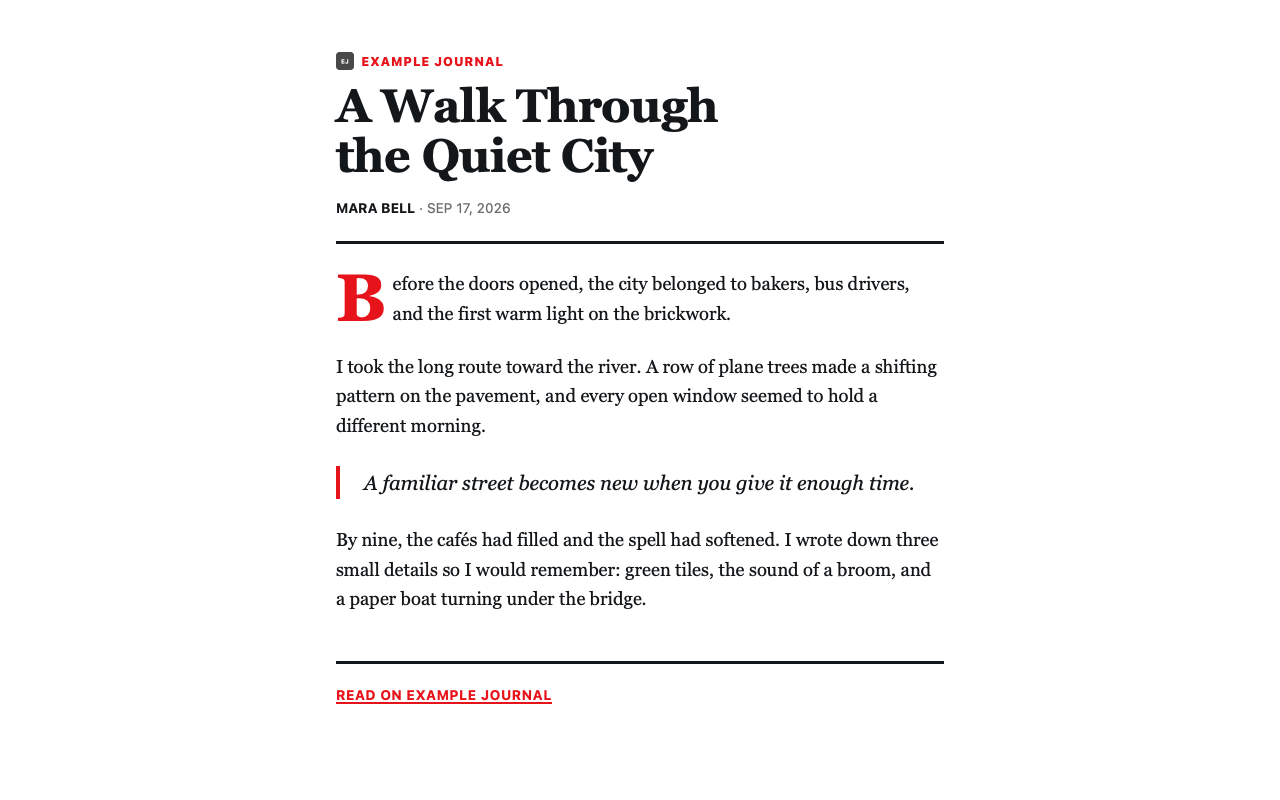
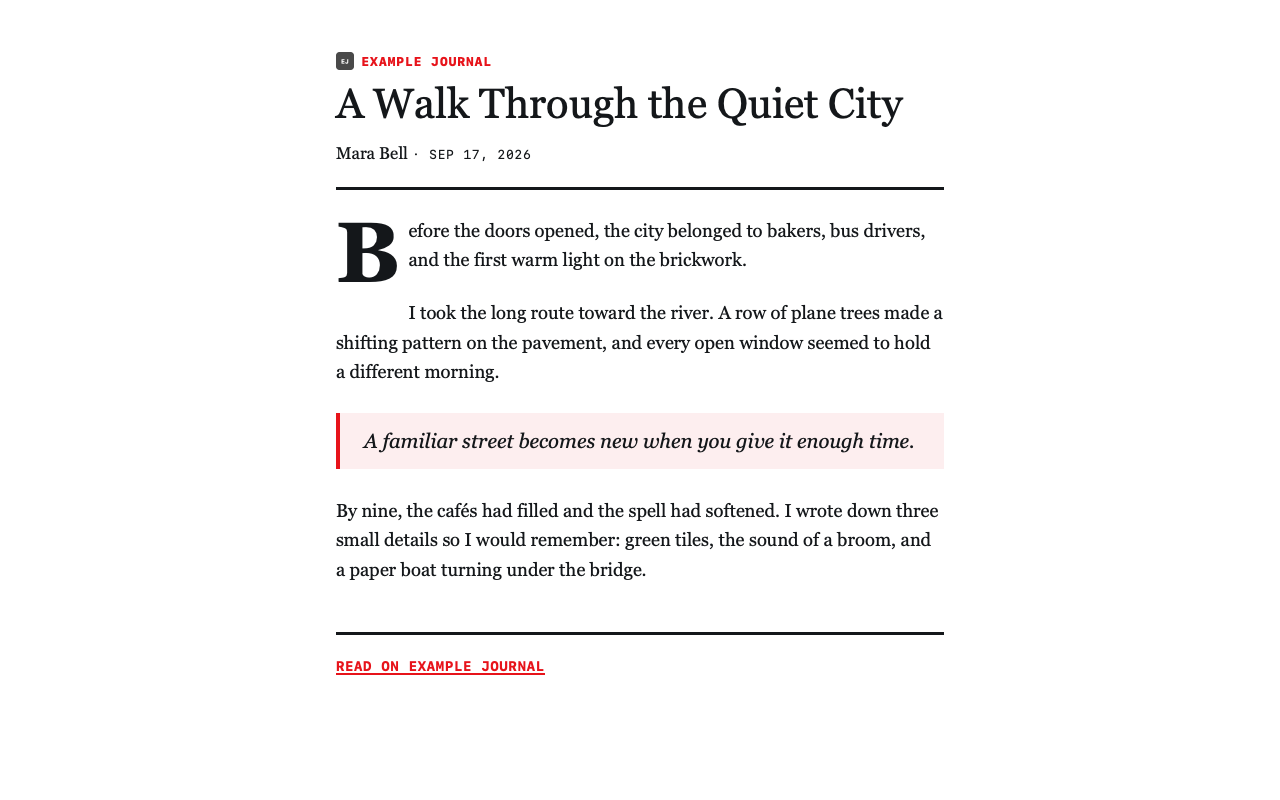
Optimize theme to better match theatlantic.com (#2)
* Reduced the article title size slightly

* Optimized theme to better match theatlantic.com

* Updated the theme preview

* Version bump to 5

* Reduced the lead character size

Changed region(s): [[0.25, 0.0625, 0.75, 0.5625], [0.25, 0.5938, 0.75, 0.875]]

diff --git a/Atlantic Breeze.nnwtheme/stylesheet.css b/Atlantic Breeze.nnwtheme/stylesheet.css
@@ -7,9 +7,8 @@
   --rule: #14171a;
   --code-surface: #f0f0ee;
   --measure: 38rem;
-  --headline-font: Georgia, "Iowan Old Style", "Palatino Linotype", "Book Antiqua", serif;
-  --body-font: Georgia, Cambria, "Times New Roman", serif;
-  --display-font: -apple-system, BlinkMacSystemFont, "Helvetica Neue", Arial, sans-serif;
+  --headline-font: Garamond, "Apple Garamond", Georgia, "Iowan Old Style", "Palatino Linotype", "Book Antiqua", serif;
+  --body-font: Garamond, "Apple Garamond", Georgia, Cambria, "Times New Roman", serif;
   --code-font: ui-monospace, "SFMono-Regular", Menlo, Consolas, monospace;
 }
 
@@ -65,7 +64,7 @@ body {
   align-items: center;
   color: var(--accent);
   display: inline-flex;
-  font-family: var(--display-font);
+  font-family: var(--code-font);
   font-size: 0.78em;
   font-weight: 800;
   gap: 0.5rem;
@@ -90,8 +89,8 @@ h1, h2, h3, h4, h5, h6 {
 }
 
 h1 {
-  font-size: clamp(1.785rem, 5.95vw, 2.89rem);
-  letter-spacing: -0.01em;
+  font-size: clamp(1.6rem, 5.35vw, 2.6rem);
+  font-weight: 400;
   margin: 0.6rem 0 0.9rem;
 }
 
@@ -100,19 +99,26 @@ h1 a { color: inherit; text-decoration: none; }
 h2 { font-size: 1.5em; margin-top: 2em; font-style: italic; }
 h3 { font-size: 1.15em; margin-top: 1.7em; }
 
-.byline, .dateline {
-  color: var(--muted);
+.byline {
+  color: var(--text);
   display: inline;
-  font-family: var(--display-font);
-  font-size: 0.85em;
-  letter-spacing: 0.01em;
+  font-family: var(--headline-font);
+  font-size: 1.05em;
+  font-weight: 400;
+}
+
+.dateline {
+  color: var(--text);
+  display: inline;
+  font-family: var(--code-font);
+  font-size: 0.8em;
+  letter-spacing: 0.05em;
   text-transform: uppercase;
 }
 
-.byline { font-weight: 700; color: var(--text); }
 .dateline::before { content: " · "; }
 
-a { color: var(--accent); text-decoration-thickness: 0.08em; text-underline-offset: 0.14em; }
+a { color: var(--text); text-decoration-thickness: 0.08em; text-underline-offset: 0.14em; }
 a:hover { text-decoration-thickness: 0.14em; }
 
 p, ul, ol, blockquote, pre, table, figure { margin-block: 1.3em; }
@@ -121,13 +127,27 @@ p, ul, ol, blockquote, pre, table, figure { margin-block: 1.3em; }
 
 /* Drop cap on the opening paragraph, magazine-style */
 .articleBody > p:first-of-type::first-letter {
-  color: var(--accent);
+  color: var(--text);
   float: left;
   font-family: var(--headline-font);
-  font-size: 3.6em;
+  font-size: 3.2em;
   font-weight: 700;
   line-height: 0.82;
   margin: 0.03em 0.1em 0.3em 0;
+}
+
+/* Keep any block that isn't ordinary prose clear of the drop cap's float */
+.articleBody h2,
+.articleBody h3,
+.articleBody h4,
+.articleBody h5,
+.articleBody h6,
+.articleBody ul,
+.articleBody ol,
+.articleBody table,
+.articleBody figure,
+.articleBody pre {
+  clear: left;
 }
 
 blockquote {
@@ -161,7 +181,7 @@ img, video, audio, iframe { height: auto; max-width: 100%; }
 figure { margin-inline: 0; }
 figcaption {
   color: var(--muted);
-  font-family: var(--display-font);
+  font-family: var(--code-font);
   font-size: 0.8em;
   font-style: italic;
   margin-top: 0.5rem;
@@ -170,12 +190,12 @@ figcaption {
 
 .nnw-overflow { overflow-x: auto; }
 
-table { border-collapse: collapse; font-family: var(--display-font); font-size: 0.9em; width: 100%; }
+table { border-collapse: collapse; font-family: var(--code-font); font-size: 0.9em; width: 100%; }
 th, td { border-bottom: 1px solid var(--rule); padding: 0.6rem 0.75rem; text-align: left; vertical-align: top; }
 
 .article-footer {
   border-top: 3px solid var(--rule);
-  font-family: var(--display-font);
+  font-family: var(--code-font);
   font-size: 0.85em;
   margin-top: 3rem;
   padding-top: 1.25rem;
@@ -193,6 +213,6 @@ th, td { border-bottom: 1px solid var(--rule); padding: 0.6rem 0.75rem; text-ali
 
 @media (max-width: 34rem) {
   body { padding: 1.1rem; }
-  h1 { font-size: 1.7rem; }
-  .articleBody > p:first-of-type::first-letter { font-size: 2.8em; }
+  h1 { font-size: 1.5rem; }
+  .articleBody > p:first-of-type::first-letter { font-size: 2.5em; }
 }
